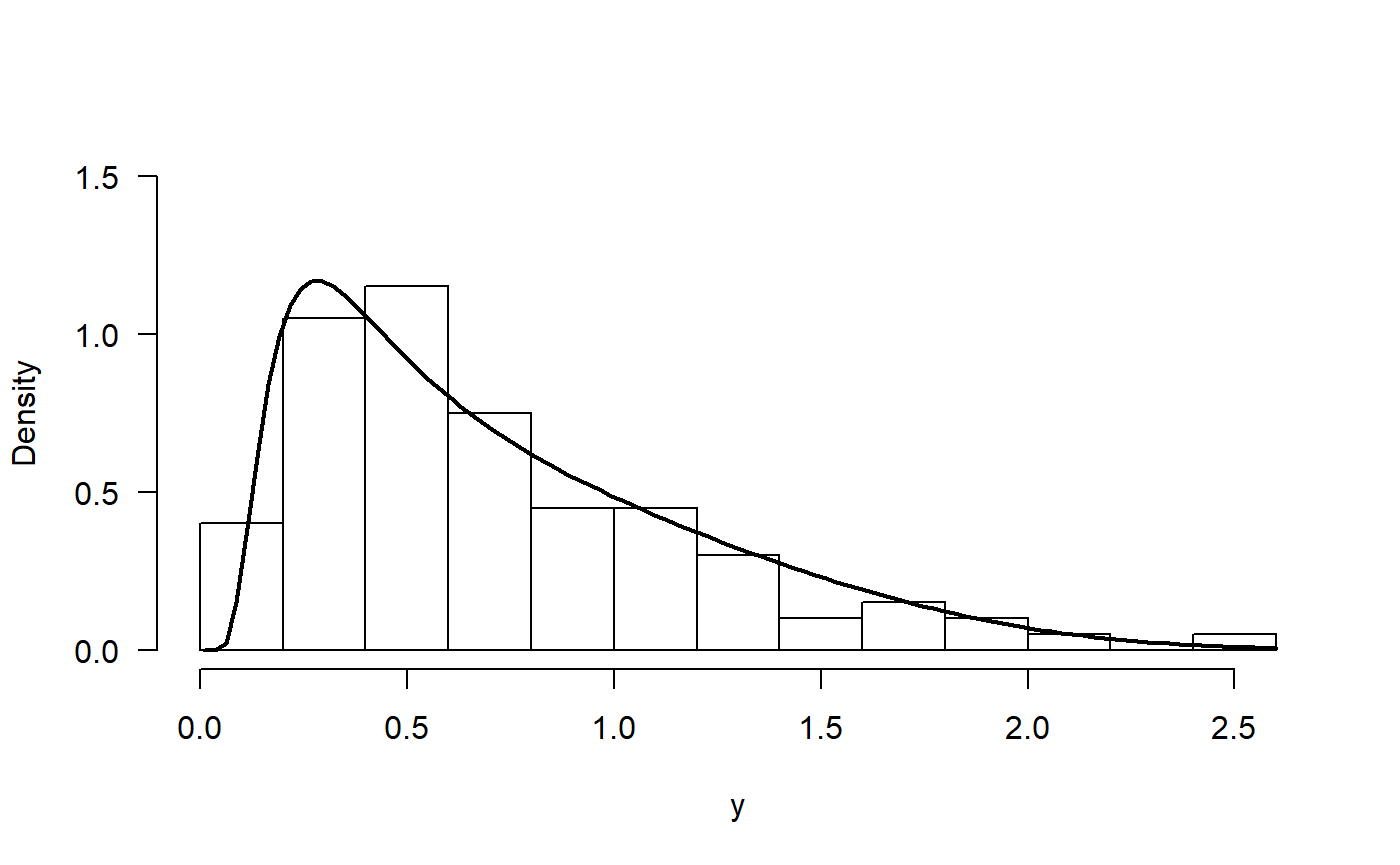
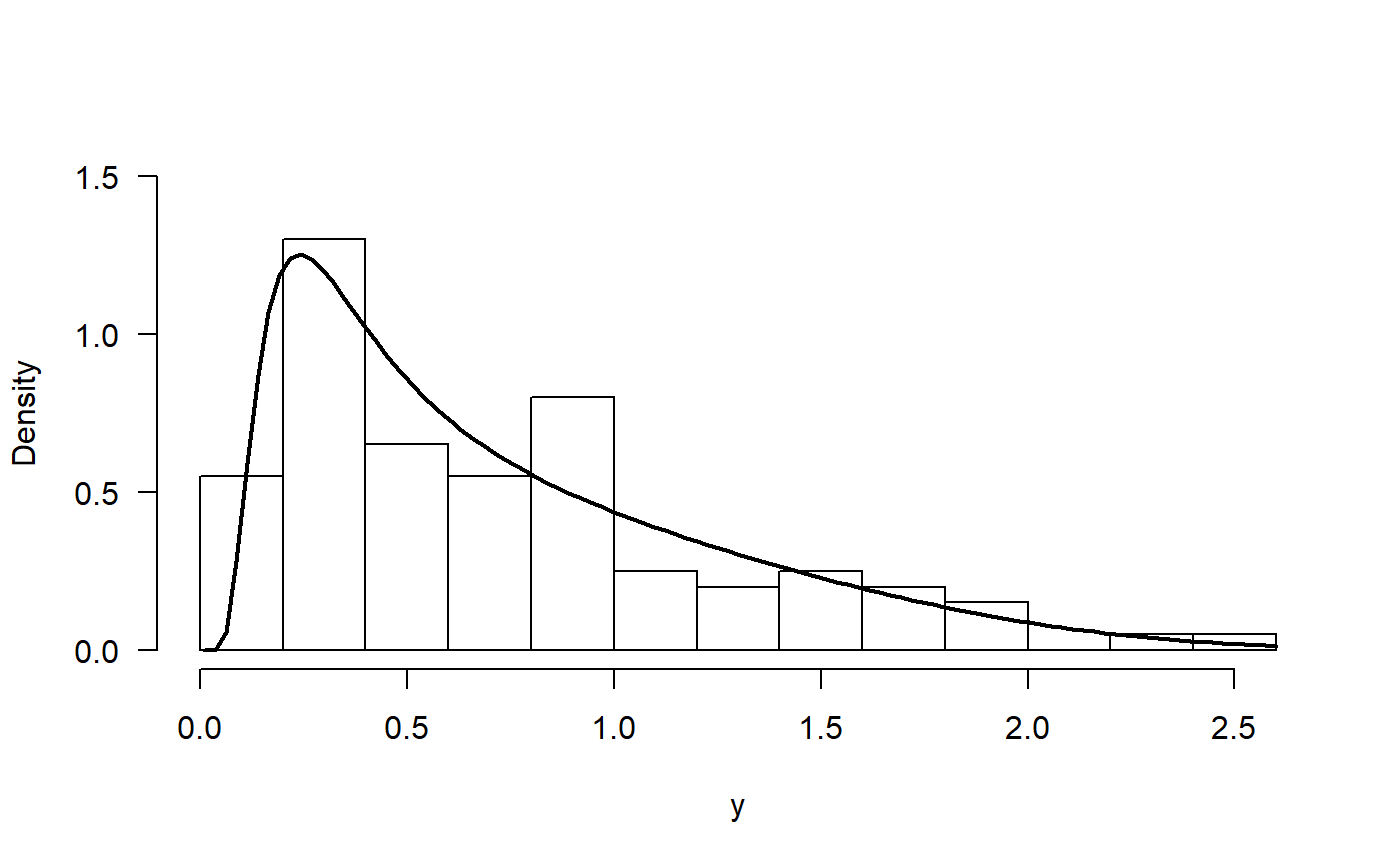
final

diff --git a/docs/articles/EW_distribution.html b/docs/articles/EW_distribution.html
@@ -197,13 +197,13 @@ mod &lt;-<span class="st"> </span><span class="kw">gamlss</span>(y<span class="o
 <p>To obtain the fitted values for <span class="math inline">\(\mu\)</span>, <span class="math inline">\(\sigma\)</span> and <span class="math inline">\(\nu\)</span> we use the inverse link function <span class="math inline">\(\log()\)</span>.</p>
 <div class="sourceCode"><pre class="sourceCode r"><code class="sourceCode r"><span class="kw">exp</span>(<span class="kw">coef</span>(mod, <span class="dt">what=</span><span class="st">'mu'</span>))
 ## (Intercept) 
-##    4.331453
+##    4.977504
 <span class="kw">exp</span>(<span class="kw">coef</span>(mod, <span class="dt">what=</span><span class="st">'sigma'</span>))
 ## (Intercept) 
-##   0.7206459
+##   0.5757171
 <span class="kw">exp</span>(<span class="kw">coef</span>(mod, <span class="dt">what=</span><span class="st">'nu'</span>))
 ## (Intercept) 
-##    4.016323</code></pre></div>
+##    7.028202</code></pre></div>
 <p>The results show that estimated parameters are close to the true parameters <span class="math inline">\(\mu\)</span>, <span class="math inline">\(\sigma\)</span> and <span class="math inline">\(\nu\)</span>.</p>
 <p>In the next figure we have the histogram for the data and the fitted density. We note that the fitted density explains better the observed data.</p>
 <div class="sourceCode"><pre class="sourceCode r"><code class="sourceCode r"><span class="kw">hist</span>(y, <span class="dt">freq=</span><span class="ot">FALSE</span>, <span class="dt">main=</span><span class="st">''</span>, <span class="dt">ylim=</span><span class="kw">c</span>(<span class="dv">0</span>, <span class="fl">1.8</span>))
@@ -267,6 +267,37 @@ mod &lt;-<span class="st"> </span><span class="kw">gamlss</span>(<span class="kw
 <div id="estimation-parameters-with-covariates" class="section level2">
 <h2 class="hasAnchor">
 <a href="#estimation-parameters-with-covariates" class="anchor"></a>2) Estimation parameters with covariates</h2>
+<p>Here we generate values from a Exponentiated Weibull distribution using the next model.</p>
+<span class="math display">\[\begin{align*} 
+y &amp;\sim EW(\mu_i, \sigma_i, \nu), \\ 
+\log(\mu_i) &amp;= 2 + -3 \times x_1, \\
+\log(\sigma_i) &amp;= 3 - 2 \times x_2, \\
+\nu &amp;= 2, \\
+x_1 &amp;\sim Poisson (\lambda=2), \\
+x_2 &amp;\sim U(0, 1)
+\end{align*}\]</span>
+<p>The code below can be used to generate <span class="math inline">\(n=200\)</span> from the last model.</p>
+<div class="sourceCode"><pre class="sourceCode r"><code class="sourceCode r">n &lt;-<span class="st"> </span><span class="dv">200</span>
+x1 &lt;-<span class="st"> </span><span class="kw">rpois</span>(n, <span class="dt">lambda=</span><span class="dv">2</span>)
+x2 &lt;-<span class="st"> </span><span class="kw">runif</span>(n)
+mu &lt;-<span class="st"> </span><span class="kw">exp</span>(<span class="dv">2</span> <span class="op">+</span><span class="st"> </span><span class="op">-</span><span class="dv">3</span> <span class="op">*</span><span class="st"> </span>x1)
+sigma &lt;-<span class="st"> </span><span class="kw">exp</span>(<span class="dv">3</span> <span class="op">-</span><span class="st"> </span><span class="dv">2</span> <span class="op">*</span><span class="st"> </span>x2)
+nu &lt;-<span class="st"> </span><span class="dv">2</span>
+x &lt;-<span class="st"> </span><span class="kw"><a href="../reference/dEW.html">rEW</a></span>(<span class="dt">n=</span>n, mu, sigma, nu)</code></pre></div>
+<p>To estimate the parameters <span class="math inline">\(\mu\)</span>, <span class="math inline">\(\sigma\)</span> and <span class="math inline">\(\nu\)</span> we can use the next code.</p>
+<div class="sourceCode"><pre class="sourceCode r"><code class="sourceCode r">mod &lt;-<span class="st"> </span><span class="kw">gamlss</span>(x<span class="op">~</span>x1, <span class="dt">sigma.fo=</span><span class="op">~</span>x2, <span class="dt">nu.fo=</span><span class="op">~</span><span class="dv">1</span>, <span class="dt">family=</span>EW,
+              <span class="dt">control=</span><span class="kw">gamlss.control</span>(<span class="dt">n.cyc=</span><span class="dv">5000</span>, <span class="dt">trace=</span><span class="ot">FALSE</span>))</code></pre></div>
+<p>and the results can be found with</p>
+<div class="sourceCode"><pre class="sourceCode r"><code class="sourceCode r"><span class="kw">coef</span>(mod, <span class="dt">what=</span><span class="st">"mu"</span>)
+## (Intercept)          x1 
+##    1.904964   -2.133846
+<span class="kw">coef</span>(mod, <span class="dt">what=</span><span class="st">"sigma"</span>)
+## (Intercept)          x2 
+##    2.680141   -1.989119
+<span class="kw">coef</span>(mod, <span class="dt">what=</span><span class="st">"nu"</span>)
+## (Intercept) 
+##    1.413845</code></pre></div>
+<p>We note that the estimated parameters are close to the true parameter vector <span class="math inline">\(\boldsymbol{\theta} = (2, -3, 3, -2, 2)^\top\)</span>.</p>
 </div>
   </div>
 

diff --git a/docs/articles/FWE_distribution.html b/docs/articles/FWE_distribution.html
@@ -149,10 +149,10 @@ mod &lt;-<span class="st"> </span><span class="kw">gamlss</span>(y<span class="o
 <p>To obtain the fitted values for <span class="math inline">\(\mu\)</span> and <span class="math inline">\(\sigma\)</span> we use the inverse link function <span class="math inline">\(\log()\)</span>.</p>
 <div class="sourceCode"><pre class="sourceCode r"><code class="sourceCode r"><span class="kw">exp</span>(<span class="kw">coef</span>(mod, <span class="dt">what=</span><span class="st">'mu'</span>))
 ## (Intercept) 
-##   0.8317085
+##   0.7584898
 <span class="kw">exp</span>(<span class="kw">coef</span>(mod, <span class="dt">what=</span><span class="st">'sigma'</span>))
 ## (Intercept) 
-##   0.5460618</code></pre></div>
+##   0.4807575</code></pre></div>
 <p>The results show that estimated parameters are close to the true parameters <span class="math inline">\(\mu\)</span> and <span class="math inline">\(\sigma\)</span>.</p>
 <p>In the next figure we have the histogram for the data and the fitted density. We note that the fitted density explains better the observed data.</p>
 <div class="sourceCode"><pre class="sourceCode r"><code class="sourceCode r"><span class="kw">hist</span>(y, <span class="dt">freq=</span><span class="ot">FALSE</span>, <span class="dt">breaks=</span><span class="dv">10</span>, <span class="dt">ylim=</span><span class="kw">c</span>(<span class="dv">0</span>, <span class="fl">1.5</span>), <span class="dt">las=</span><span class="dv">1</span>, <span class="dt">main=</span><span class="st">''</span>)
@@ -164,6 +164,32 @@ mod &lt;-<span class="st"> </span><span class="kw">gamlss</span>(y<span class="o
 <div id="estimation-parameters-with-covariates" class="section level2">
 <h2 class="hasAnchor">
 <a href="#estimation-parameters-with-covariates" class="anchor"></a>2) Estimation parameters with covariates</h2>
+<p>Here we generate values from a Flexible Weibull extension distribution using the next model.</p>
+<span class="math display">\[\begin{align*} 
+y &amp;\sim FWE(\mu_i, \sigma_i), \\ 
+\log(\mu_i) &amp;= 1.21 - 3 \times x_1, \\
+\log(\sigma_i) &amp;= 1.26 - 2 \times x_2, \\
+x_1 &amp;\sim U(0, 1), \\
+x_2 &amp;\sim U(0, 1)
+\end{align*}\]</span>
+<p>The code below can be used to generate <span class="math inline">\(n=200\)</span> from the last model.</p>
+<div class="sourceCode"><pre class="sourceCode r"><code class="sourceCode r">n &lt;-<span class="st"> </span><span class="dv">200</span>
+x1 &lt;-<span class="st"> </span><span class="kw">runif</span>(n)
+x2 &lt;-<span class="st"> </span><span class="kw">runif</span>(n)
+mu &lt;-<span class="st"> </span><span class="kw">exp</span>(<span class="fl">1.21</span> <span class="op">-</span><span class="st"> </span><span class="dv">3</span> <span class="op">*</span><span class="st"> </span>x1)
+sigma &lt;-<span class="st"> </span><span class="kw">exp</span>(<span class="fl">1.26</span> <span class="op">-</span><span class="st"> </span><span class="dv">2</span> <span class="op">*</span><span class="st"> </span>x2)
+x &lt;-<span class="st"> </span><span class="kw"><a href="../reference/dFWE.html">rFWE</a></span>(<span class="dt">n=</span>n, mu, sigma)</code></pre></div>
+<p>To estimate the parameters <span class="math inline">\(\mu\)</span> and <span class="math inline">\(\sigma\)</span> we can use the next code.</p>
+<div class="sourceCode"><pre class="sourceCode r"><code class="sourceCode r">mod &lt;-<span class="st"> </span><span class="kw">gamlss</span>(x<span class="op">~</span>x1, <span class="dt">sigma.fo=</span><span class="op">~</span>x2, <span class="dt">family=</span>FWE,
+              <span class="dt">control=</span><span class="kw">gamlss.control</span>(<span class="dt">n.cyc=</span><span class="dv">5000</span>, <span class="dt">trace=</span><span class="ot">FALSE</span>))</code></pre></div>
+<p>and the results can be found with</p>
+<div class="sourceCode"><pre class="sourceCode r"><code class="sourceCode r"><span class="kw">coef</span>(mod, <span class="dt">what=</span><span class="st">"mu"</span>)
+## (Intercept)          x1 
+##    1.269057   -3.034418
+<span class="kw">coef</span>(mod, <span class="dt">what=</span><span class="st">"sigma"</span>)
+## (Intercept)          x2 
+##    1.234635   -1.777621</code></pre></div>
+<p>We note that the estimated parameters are close to the true parameter vector <span class="math inline">\(\boldsymbol{\theta} = (1.21, -3, 1.26, -2)^\top\)</span>.</p>
 </div>
   </div>
 

diff --git a/docs/reference/EW.html b/docs/reference/EW.html
@@ -167,7 +167,7 @@
 #&gt;   0.7234342 </div><div class='input'>
 <span class='co'># Example 2</span>
 <span class='co'># Generating random values under some model</span>
-<span class='no'>n</span> <span class='kw'>&lt;-</span> <span class='fl'>20</span>
+<span class='no'>n</span> <span class='kw'>&lt;-</span> <span class='fl'>200</span>
 <span class='no'>x1</span> <span class='kw'>&lt;-</span> <span class='fu'>rpois</span>(<span class='no'>n</span>, <span class='kw'>lambda</span><span class='kw'>=</span><span class='fl'>2</span>)
 <span class='no'>x2</span> <span class='kw'>&lt;-</span> <span class='fu'>runif</span>(<span class='no'>n</span>)
 <span class='no'>mu</span> <span class='kw'>&lt;-</span> <span class='fu'>exp</span>(<span class='fl'>2</span> + -<span class='fl'>3</span> * <span class='no'>x1</span>)
@@ -179,9 +179,9 @@
               <span class='kw'>control</span><span class='kw'>=</span><span class='fu'><a href='http://www.rdocumentation.org/packages/gamlss/topics/gamlss.control'>gamlss.control</a></span>(<span class='kw'>n.cyc</span><span class='kw'>=</span><span class='fl'>5000</span>, <span class='kw'>trace</span><span class='kw'>=</span><span class='fl'>FALSE</span>))
 
 <span class='fu'>coef</span>(<span class='no'>mod</span>, <span class='kw'>what</span><span class='kw'>=</span><span class='st'>"mu"</span>)</div><div class='output co'>#&gt; (Intercept)          x1 
-#&gt;    1.863492   -3.451540 </div><div class='input'><span class='fu'>coef</span>(<span class='no'>mod</span>, <span class='kw'>what</span><span class='kw'>=</span><span class='st'>"sigma"</span>)</div><div class='output co'>#&gt; (Intercept)          x2 
-#&gt;    3.210507   -2.058373 </div><div class='input'><span class='fu'>coef</span>(<span class='no'>mod</span>, <span class='kw'>what</span><span class='kw'>=</span><span class='st'>"nu"</span>)</div><div class='output co'>#&gt; (Intercept) 
-#&gt;    0.523143 </div><div class='input'>
+#&gt;    1.955719   -2.942370 </div><div class='input'><span class='fu'>coef</span>(<span class='no'>mod</span>, <span class='kw'>what</span><span class='kw'>=</span><span class='st'>"sigma"</span>)</div><div class='output co'>#&gt; (Intercept)          x2 
+#&gt;    2.968294   -1.987047 </div><div class='input'><span class='fu'>coef</span>(<span class='no'>mod</span>, <span class='kw'>what</span><span class='kw'>=</span><span class='st'>"nu"</span>)</div><div class='output co'>#&gt; (Intercept) 
+#&gt;   0.7016593 </div><div class='input'>
 
 </div></pre>
   </div>

diff --git a/docs/reference/FWE.html b/docs/reference/FWE.html
@@ -156,8 +156,8 @@ has density given by</p>
 <span class='co'># Extracting the fitted values for mu and sigma</span>
 <span class='co'># using the inverse link function</span>
 <span class='fu'>exp</span>(<span class='fu'>coef</span>(<span class='no'>mod</span>, <span class='kw'>what</span><span class='kw'>=</span><span class='st'>'mu'</span>))</div><div class='output co'>#&gt; (Intercept) 
-#&gt;   0.8437712 </div><div class='input'><span class='fu'>exp</span>(<span class='fu'>coef</span>(<span class='no'>mod</span>, <span class='kw'>what</span><span class='kw'>=</span><span class='st'>'sigma'</span>))</div><div class='output co'>#&gt; (Intercept) 
-#&gt;    1.474914 </div><div class='input'>
+#&gt;   0.7842519 </div><div class='input'><span class='fu'>exp</span>(<span class='fu'>coef</span>(<span class='no'>mod</span>, <span class='kw'>what</span><span class='kw'>=</span><span class='st'>'sigma'</span>))</div><div class='output co'>#&gt; (Intercept) 
+#&gt;    1.319039 </div><div class='input'>
 <span class='co'># Example 2</span>
 <span class='co'># Generating random values under some model</span>
 <span class='no'>n</span> <span class='kw'>&lt;-</span> <span class='fl'>200</span>
@@ -171,8 +171,8 @@ has density given by</p>
               <span class='kw'>control</span><span class='kw'>=</span><span class='fu'><a href='http://www.rdocumentation.org/packages/gamlss/topics/gamlss.control'>gamlss.control</a></span>(<span class='kw'>n.cyc</span><span class='kw'>=</span><span class='fl'>5000</span>, <span class='kw'>trace</span><span class='kw'>=</span><span class='fl'>FALSE</span>))
 
 <span class='fu'>coef</span>(<span class='no'>mod</span>, <span class='kw'>what</span><span class='kw'>=</span><span class='st'>"mu"</span>)</div><div class='output co'>#&gt; (Intercept)          x1 
-#&gt;    1.196250   -2.910051 </div><div class='input'><span class='fu'>coef</span>(<span class='no'>mod</span>, <span class='kw'>what</span><span class='kw'>=</span><span class='st'>"sigma"</span>)</div><div class='output co'>#&gt; (Intercept)          x2 
-#&gt;    1.267474   -2.033355 </div><div class='input'>
+#&gt;    1.267916   -3.066338 </div><div class='input'><span class='fu'>coef</span>(<span class='no'>mod</span>, <span class='kw'>what</span><span class='kw'>=</span><span class='st'>"sigma"</span>)</div><div class='output co'>#&gt; (Intercept)          x2 
+#&gt;    1.424363   -2.145731 </div><div class='input'>
 </div></pre>
   </div>
   <div class="col-md-3 hidden-xs hidden-sm" id="sidebar">
